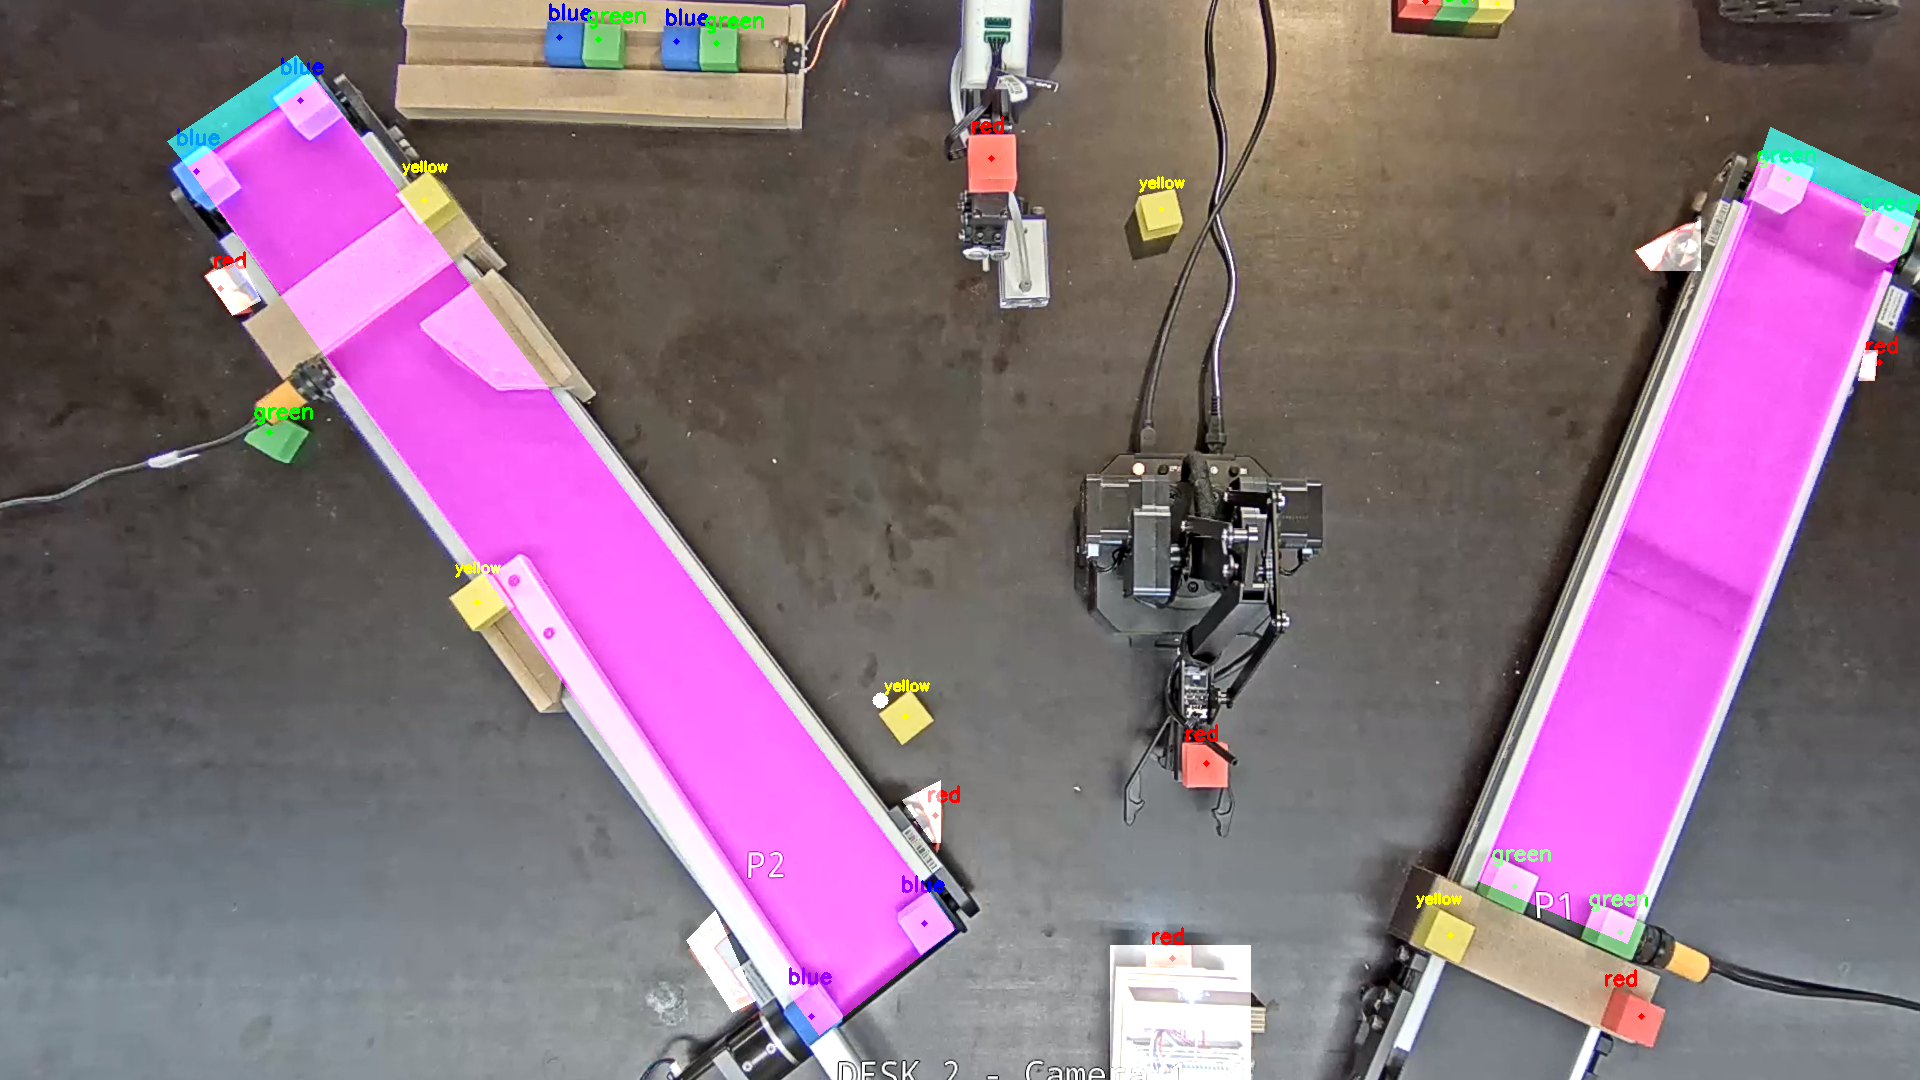
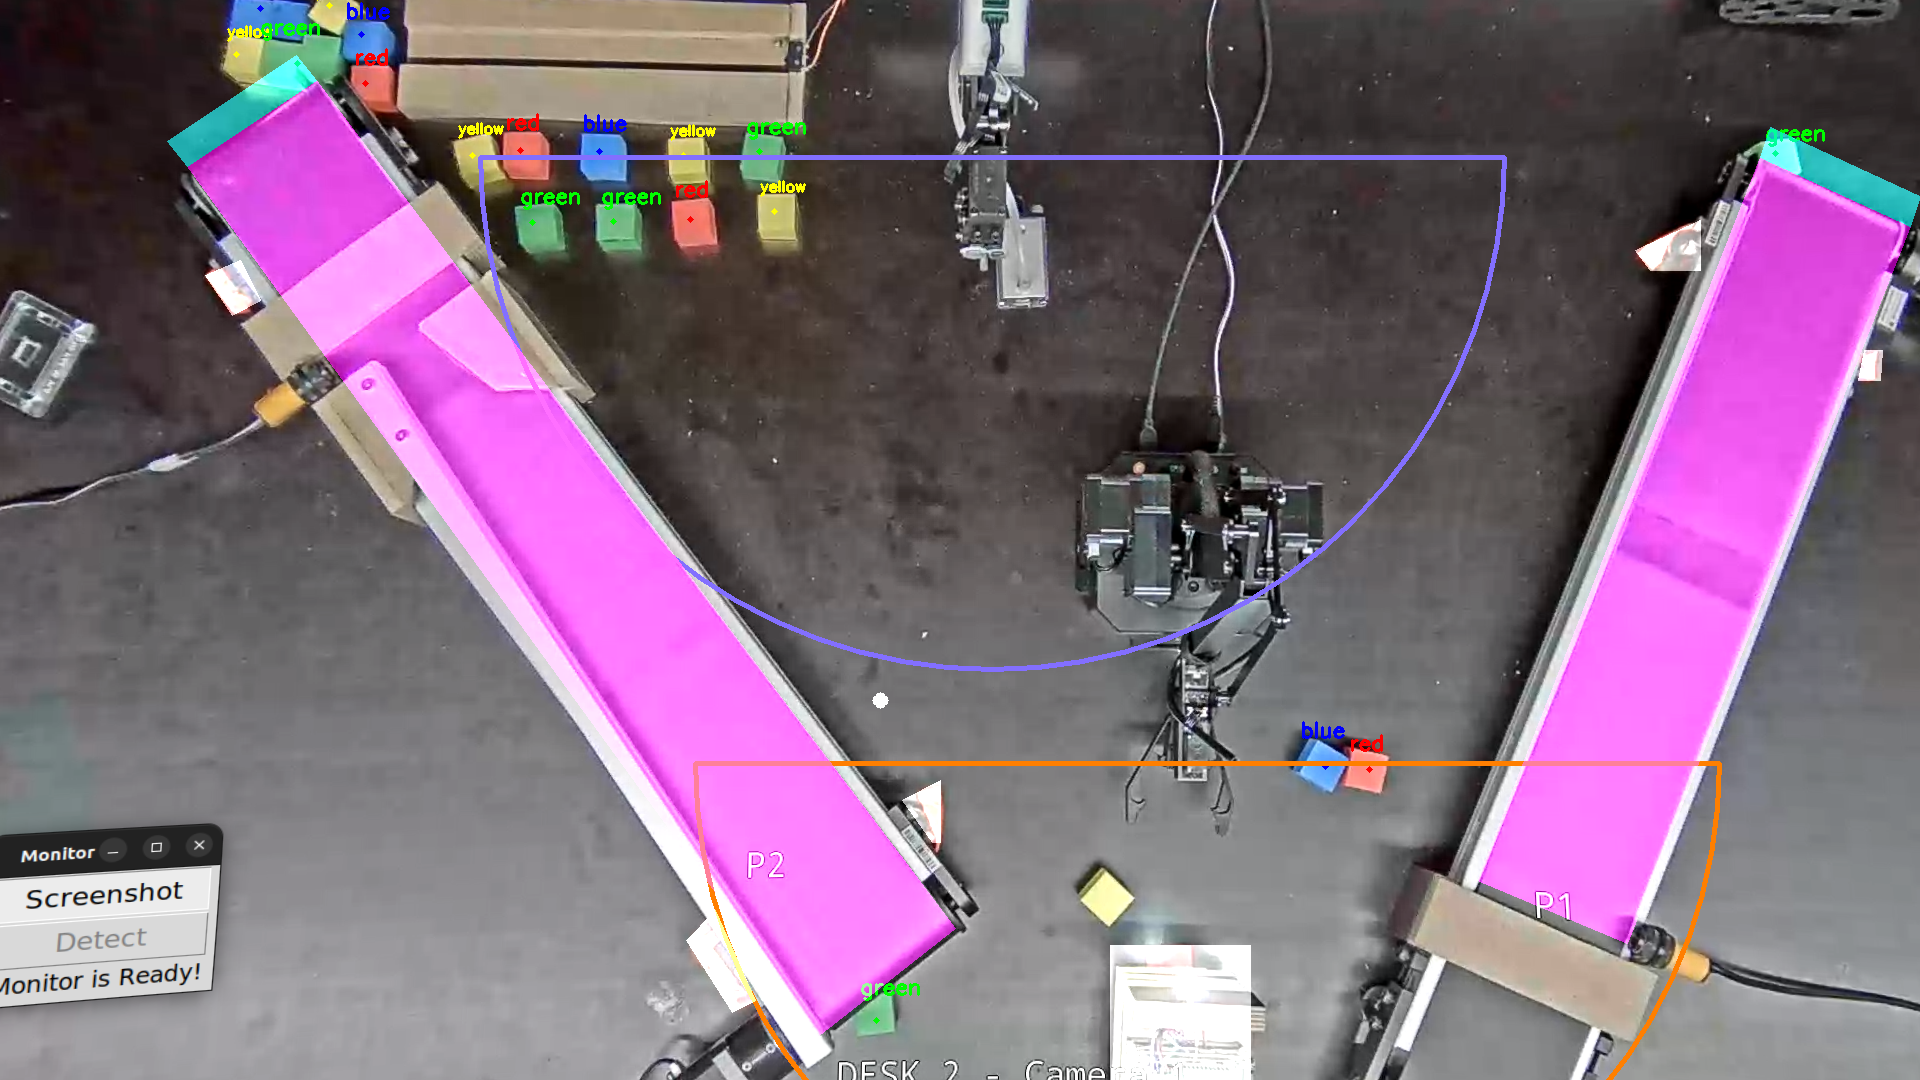
20220911

diff --git a/src/detection.py b/src/detection.py
@@ -6,9 +6,10 @@ import cv2
 import points as pts
 from cubeCorrection import correct_location
 from converting import convert_array, convert_pix_to_mm
-from assigning import assign_arm
-from drawing import draw_masks, draw_point
-from tracks import isOnTrack
+from assignArms import assignArms
+from drawing import draw_areas, draw_point
+from inInvalidAreas import inInvalidAreas
+from isOnTrack import isOnTrack
 
 # from PIL import ImageGrab
 # import pyscreenshot as ImageGrab
@@ -74,6 +75,8 @@ def detect(image):
         cx = int(rect[0][0])#获取中心点x坐标
         cy = int(rect[0][1])
         [cx,cy] = correct_location([cx,cy])
+        if(inInvalidAreas([cx,cy])):
+            continue
         point_list.append(cx)
         point_list.append(cy)
         if(isOnTrack([cx,cy])):
@@ -101,6 +104,8 @@ def detect(image):
         cx = int(rect[0][0]) #获取中心点x坐标
         cy = int(rect[0][1])
         [cx,cy] = correct_location([cx,cy])
+        if(inInvalidAreas([cx,cy])):
+            continue
         point_list.append(cx)
         point_list.append(cy)
         if(isOnTrack([cx,cy])):
@@ -128,6 +133,8 @@ def detect(image):
         cx = int(rect[0][0])#获取中心点x坐标
         cy = int(rect[0][1])
         [cx,cy] = correct_location([cx,cy])
+        if(inInvalidAreas([cx,cy])):
+            continue
         point_list.append(cx)
         point_list.append(cy)
         if(isOnTrack([cx,cy])):
@@ -155,6 +162,8 @@ def detect(image):
         cx = int(rect[0][0])#获取中心点x坐标
         cy = int(rect[0][1])
         [cx,cy] = correct_location([cx,cy])
+        if(inInvalidAreas([cx,cy])):
+            continue
         point_list.append(cx)
         point_list.append(cy)
         if(isOnTrack([cx,cy])):
@@ -183,7 +192,7 @@ def detect(image):
     # draw_point(image, pts.right_track_RTPoint)
     # draw_point(image, pts.right_track_RBPoint)
 
-    image = draw_masks(image)
+    image = draw_areas(image)
 
 ######################     draw some lines/points to help debug ENDs     #####################
 
@@ -202,7 +211,7 @@ def detect(image):
 
     # print(Tracks.isOnTrack([1700,600]))
     # print(point_array)
-    assign_arm(point_array)
+    assignArms(point_array)
 
     return image
 

diff --git a/src/inInvalidAreas.py b/src/inInvalidAreas.py
@@ -1,0 +1,48 @@
+# # Sometimes the red tapes may be detected as "red cubes". 
+# # So we need to exclude these areas that the red tapes fall.
+
+import points as pts
+from inQuadrilateralArea import inQuadrilateralArea
+
+def inInvalidAreas(testPoint):
+
+    in_tape_A = inQuadrilateralArea(pts.tape_A_LBPoint, 
+                                    pts.tape_A_LTPoint, 
+                                    pts.tape_A_RTPoint, 
+                                    pts.tape_A_RBPoint, 
+                                    testPoint)
+    
+    in_tape_B = inQuadrilateralArea(pts.tape_B_LBPoint, 
+                                    pts.tape_B_LTPoint, 
+                                    pts.tape_B_RTPoint, 
+                                    pts.tape_B_RBPoint, 
+                                    testPoint)
+
+    in_tape_C = inQuadrilateralArea(pts.tape_C_LBPoint, 
+                                    pts.tape_C_LTPoint, 
+                                    pts.tape_C_RTPoint, 
+                                    pts.tape_C_RBPoint, 
+                                    testPoint)
+
+    in_tape_D = inQuadrilateralArea(pts.tape_D_LBPoint, 
+                                    pts.tape_D_LTPoint, 
+                                    pts.tape_D_RTPoint, 
+                                    pts.tape_D_RBPoint, 
+                                    testPoint)
+
+    in_tape_E = inQuadrilateralArea(pts.tape_E_LBPoint, 
+                                    pts.tape_E_LTPoint, 
+                                    pts.tape_E_RTPoint, 
+                                    pts.tape_E_RBPoint, 
+                                    testPoint)
+
+    in_tape_F = inQuadrilateralArea(pts.tape_F_LBPoint, 
+                                    pts.tape_F_LTPoint, 
+                                    pts.tape_F_RTPoint, 
+                                    pts.tape_F_RBPoint, 
+                                    testPoint)
+
+    if in_tape_A or in_tape_B or in_tape_C or in_tape_D or in_tape_E or in_tape_F: 
+        return True # if the testPoint falls in one of the tape areas, returns True.
+    else:
+        return False # else returns True.

diff --git a/src/drawing.py b/src/drawing.py
@@ -6,7 +6,7 @@ def draw_point(image, testPoint):
     image = cv2.line(image,(testPoint[0]+3,testPoint[1]),(testPoint[0]-3,testPoint[1]),(255, 255, 255),10)
     image = cv2.line(image,(testPoint[0],testPoint[1]+3),(testPoint[0],testPoint[1]-3),(255, 255, 255),10)
 
-def draw_masks(image):
+def draw_areas(image):
 
     zeros = np.zeros((image.shape), dtype=np.uint8)
     
@@ -89,6 +89,18 @@ def draw_masks(image):
                         [pts.tape_F_RBPoint[0], pts.tape_F_RBPoint[1]]], np.int32)
     pts_10 = pts_10.reshape((-1, 1, 2))
     mask_10 = cv2.fillConvexPoly(zeros, pts_10, (255,255,255))
+
+    # 绘制扇形  1.目标图片  2.椭圆圆心  3.长短轴长度  4.偏转角度  5.圆弧起始角度  6.终止角度  7.颜色  8.是否填充
+    cv2.ellipse(image,(pts.moving_arm[0],pts.moving_arm[1]),
+                (512,512),0,0,180,(255,111,131),4)
+    cv2.line(image, (pts.moving_arm[0]-512,pts.moving_arm[1]), (pts.moving_arm[0]+512,pts.moving_arm[1]), 
+                (255,111,131), 4, 4)
+
+    # 绘制扇形  1.目标图片  2.椭圆圆心  3.长短轴长度  4.偏转角度  5.圆弧起始角度  6.终止角度  7.颜色  8.是否填充
+    cv2.ellipse(image,(pts.fixed_arm[0],pts.fixed_arm[1]),
+                (512,512),0,0,180,(0,127,255),4)
+    cv2.line(image, (pts.fixed_arm[0]-512,pts.fixed_arm[1]), (pts.fixed_arm[0]+512,pts.fixed_arm[1]), 
+                (0,127,255), 4, 4)
 
     image = 0.6*mask_10 + image
 

diff --git a/src/isOnTrack.py b/src/isOnTrack.py
@@ -1,0 +1,22 @@
+import points as pts
+from inQuadrilateralArea import inQuadrilateralArea
+
+# judge whether the testPoint point is in or out of the track
+def isOnTrack(testPoint):
+
+    in_left_track = inQuadrilateralArea(pts.left_track_LBPoint,
+                                        pts.left_track_LTPoint,
+                                        pts.left_track_RTPoint,
+                                        pts.left_track_RBPoint,
+                                        testPoint)
+
+    in_right_track = inQuadrilateralArea(pts.right_track_LBPoint,
+                                         pts.right_track_LTPoint,
+                                         pts.right_track_RTPoint,
+                                         pts.right_track_RBPoint,
+                                         testPoint)
+
+    if in_left_track or in_right_track: # if the point falls in either the left track or the right track, return True.
+        return True
+    else: # else, return False.
+        return False

diff --git a/src/assignArms.py b/src/assignArms.py
@@ -12,7 +12,7 @@ cubes_assigned_to_fixed_arm = []
 cubes_assigned_to_moving_arm = []
 
 # assign cubes to the closest arm
-def assign_arm(point_array):
+def assignArms(point_array):
     for point in point_array:
         distance_to_the_fixed_arm = (point[0]-pts.fixed_arm[0])*(point[0]-pts.fixed_arm[0]) + (point[1]-pts.fixed_arm[1])*(point[1]-pts.fixed_arm[1])
         distance_to_the_moving_arm = (point[0]-pts.moving_arm[0])*(point[0]-pts.moving_arm[0]) + (point[1]-pts.moving_arm[1])*(point[1]-pts.moving_arm[1])

diff --git a/src/points.py b/src/points.py
@@ -66,5 +66,5 @@ tape_E_RBPoint = [1700, 270]
 # tape F
 tape_F_LBPoint = [1858, 380]
 tape_F_LTPoint = [1864, 350]
-tape_F_RTPoint = [1877, 350]
-tape_F_RBPoint = [1874, 380]
+tape_F_RTPoint = [1882, 350]
+tape_F_RBPoint = [1880, 380]

diff --git a/src/cubeCorrection.py b/src/cubeCorrection.py
@@ -1,5 +1,5 @@
 import points as pts
-from quadrilateral import inQuadrilateralArea
+from inQuadrilateralArea import inQuadrilateralArea
 
 
 def isAtUpperLeft(testPoint):#Point为待测点[x,y]
